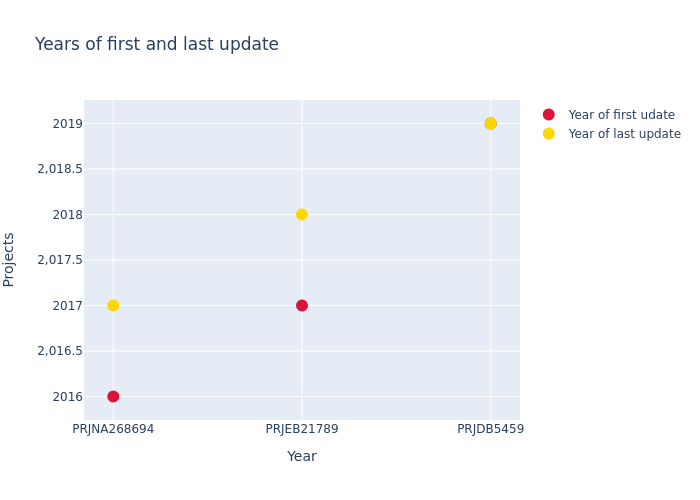
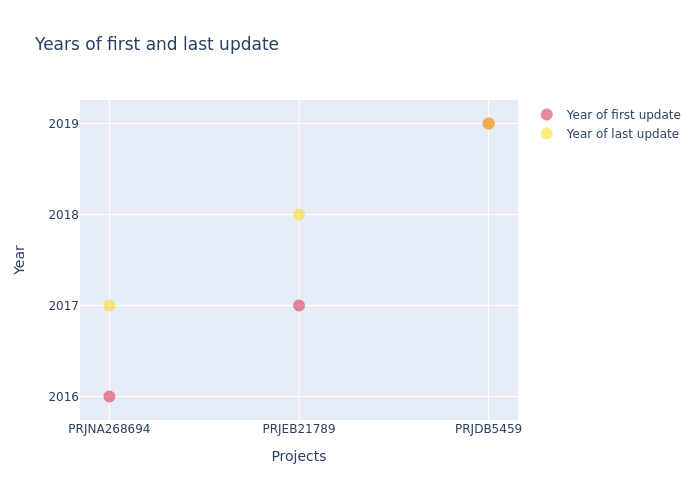
sara

diff --git a/report_generation_module.py b/report_generation_module.py
@@ -156,9 +156,9 @@ def sample_number(user_session, e_df):
 def IDs_dates(user_session, e_df):
     cols = ['first_public', 'last_updated']
     if pd.Series(['first_public', 'last_updated']).isin(e_df.columns).all():
-        e_df['first_public'] = pd.to_datetime(e_df['first_public'],  errors='coerce', infer_datetime_format=True) #convert into datatyoe
+        e_df['first_public'] = pd.to_datetime(e_df['first_public'],  errors='coerce', infer_datetime_format=True) #convert into datatype
         e_df['last_updated'] = pd.to_datetime(e_df['last_updated'], errors='coerce', infer_datetime_format=True)
-        e_df['first_public_year'] = e_df['first_public'].dt.year #select only year
+        e_df['first_public_year'] = e_df['first_public'].dt.year #create a new column with only year
         e_df['last_updated_year'] = e_df['last_updated'].dt.year
         collapsed_e_df = e_df.groupby('study_accession').first().reset_index()
         collapsed_e_df = collapsed_e_df.sort_values(by=['first_public_year'], ascending=True)
@@ -169,14 +169,14 @@ def IDs_dates(user_session, e_df):
         collapsed_e_list_l_x = collapsed_e_df_l.study_accession.values.tolist()
         collapsed_e_list_l_y = collapsed_e_df_l.last_updated_year.values.tolist()
 
-        
         fig = go.Figure()
         fig.add_trace(go.Scatter(
             x=collapsed_e_list_f_x,
             y=collapsed_e_list_f_y,
             marker=dict(color="crimson", size=12), #colore da modificare
             mode="markers",
-            name="Year of first udate",
+            name="Year of first update",
+            opacity=0.5
         ))
         
         fig.add_trace(go.Scatter(
@@ -185,12 +185,14 @@ def IDs_dates(user_session, e_df):
             marker=dict(color="gold", size=12), #colore da modificare
             mode="markers",
             name="Year of last update",
+            opacity=0.5
         ))
 
         fig.update_layout(title="Years of first and last update",
-                        xaxis_title="Year",
-                        yaxis_title="Projects",
-                        barmode='group')##########
+                        xaxis_title="Projects",
+                        yaxis_title="Year")
+        
+        fig.update_yaxes(type="category", categoryorder='category ascending') #make years as categorical and sort them
 
         fig.write_image(os.path.join(user_session, "years_update.png"))
 
@@ -343,8 +345,9 @@ def library_layout_bar(user_session, e_df):
     else:
         pass
 
+
 #WORLD MAP 
-def alpha3code(column):
+def alpha3code(column): #create a list of ISO3 starting from the column of interest
         CODE=[]
         for country in column:
             try:
@@ -354,27 +357,23 @@ def alpha3code(column):
                 CODE.append('None')
         return CODE
 
-def geography(user_session, e_df, p_df):
-
+def geography(user_session, p_df):
     country_list = []
     affiliation_list = p_df['affiliation'].tolist()
     for affiliation in affiliation_list:
-        for country in pycountry.countries:
+        for country in pycountry.countries: #extract the name of the country from a string, in this case the affiliation
             if country.name in affiliation:
                 country_list.append(country.name)
 
-    countries = {}
-    for country in pycountry.countries:
-        countries[country.name] = country.alpha_2
-        codes = [countries.get(country, 'Unknown code') for country in country_list]
+    # countries = {} #inutile: eliminare?!?!?!
+    # for country in pycountry.countries:
+    #     countries[country.name] = country.alpha_2
+    #     codes = [countries.get(country, 'Unknown code') for country in country_list]
     
     input =  country_list
-    c = Counter( input )
-    print( c.items() )
-
+    c = Counter(input) #counter of countries
     country_df = pd.DataFrame(c.items(), columns = ['country', 'count'])
-
-    country_df['CODE']=alpha3code(country_df.country) #iso_3
+    country_df['CODE']=alpha3code(country_df.country) #call alpha3code to create ISO3 column
 
     # fig = px.scatter_geo(country_df, locations="CODE",
     #                  hover_name="country", size="count",
@@ -445,5 +444,5 @@ def report_ep(user_session, e_df, p_df):
     instrument_platform_bar(user_session, e_df)
     library_layout_pie(user_session, e_df)
     library_layout_bar(user_session, e_df)
-    geography(user_session, e_df, p_df)
+    geography(user_session, p_df)
     projects_bytes(user_session, e_df)
